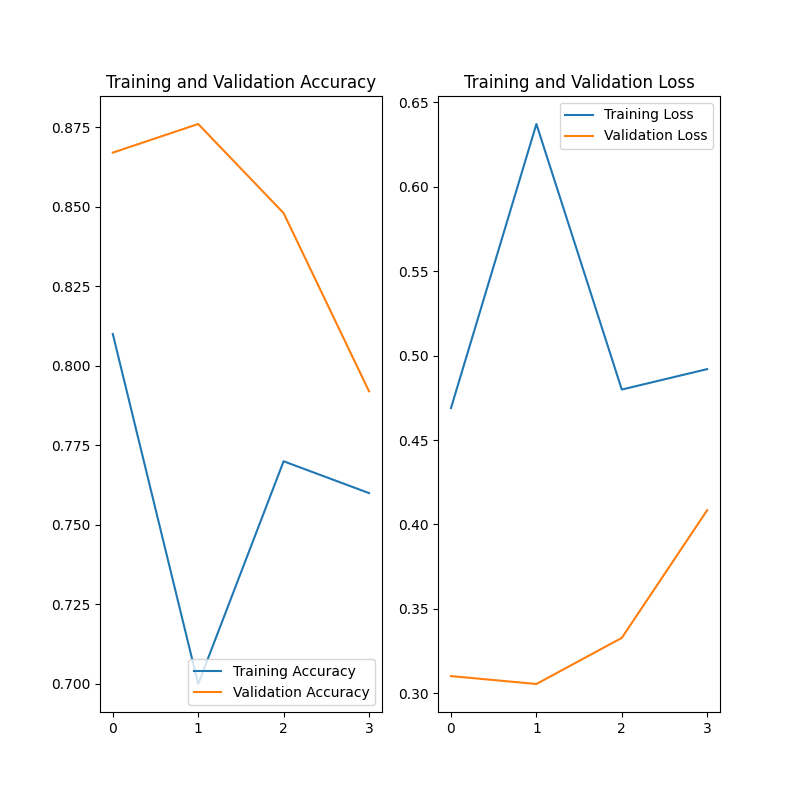
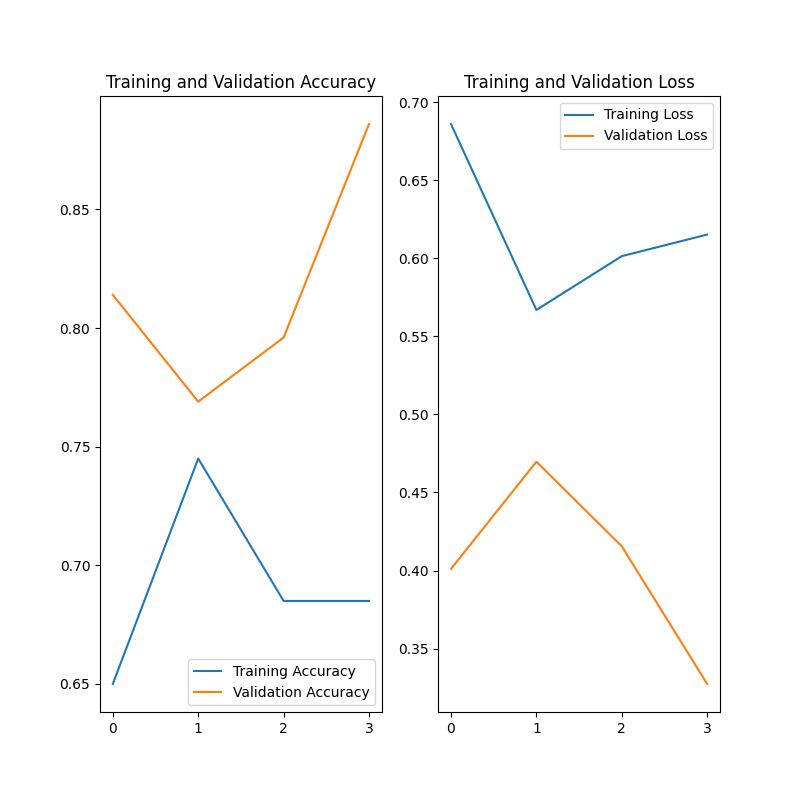
Feature (multi-run support) fully functional

diff --git a/falafel/templates/model.html b/falafel/templates/model.html
@@ -21,14 +21,22 @@
     
     <h2>Training History</h2>
     <div id="accuracyPlot" class="plot"></div>
+    <div id="val_accuracyPlot" class="plot"></div>
     <div id="lossPlot" class="plot"></div>
+    <div id="val_lossPlot" class="plot"></div>
 
     <script>
         var accData = JSON.parse('{{ acc_plot | safe }}');
         Plotly.newPlot('accuracyPlot', accData.data, accData.layout);
 
+        var accData = JSON.parse('{{ val_acc_plot | safe }}');
+        Plotly.newPlot('val_accuracyPlot', accData.data, accData.layout);
+
         var lossData = JSON.parse('{{ loss_plot | safe }}');
         Plotly.newPlot('lossPlot', lossData.data, lossData.layout);
+
+        var accData = JSON.parse('{{ val_loss_plot | safe }}');
+        Plotly.newPlot('val_lossPlot', accData.data, accData.layout);
     </script>
 </body>
 </html>

diff --git a/falafel/app.py b/falafel/app.py
@@ -41,6 +41,13 @@ def create_app():
     ALLOWED_EXTENSIONS = {'png', 'jpg', 'jpeg', 'gif', 'bmp', 'tiff'}
     MAX_CONTENT_LENGTH = constants.MAX_CONTENT_LENGTH
 
+    valueDict = {
+        "acc": ["Training Accuracy", "Accuracy"],
+        "val_acc": ["Validation Accuracy", "Accuracy"],
+        "loss": ["Training Loss", "Loss"],
+        "val_loss": ["Validation Loss", "Loss"],
+    }
+
 
 #### Logging setup
     log_dir = constants.LOG_DIR
@@ -114,6 +121,43 @@ def create_app():
         return results[:5]  # Return top 5 predictions
 
         
+    def plot_history(history_array, value):
+
+        fig = go.Figure()
+
+        epoch_offset = 0
+        for i, history_i in enumerate(history_array):
+            epochs = list(range(epoch_offset, epoch_offset + len(history_i[value])))
+            # acc_fig.add_trace(go.Scatter(x=epochs, y=history_i['acc'], mode='lines+markers', name=f'Run {i+1}'))
+            # epoch_offset += len(history_i['acc'])
+            if i > 0:
+                # Connect the last point of the previous run to the first point of the current run
+                fig.add_trace(go.Scatter(
+                    x=[epoch_offset - 1, epoch_offset],
+                    y=[history_array[i-1][value][-1], history_i[value][0]],
+                    mode='lines',
+                    line=dict(color='gray', dash='dot'),
+                    showlegend=False
+                ))
+
+            fig.add_trace(go.Scatter(
+                x=epochs,
+                y=history_i[value],
+                mode='lines+markers',
+                name=f'Run {i+1}'
+            ))
+
+            epoch_offset += len(history_i[value])
+
+                    # Update layout
+        fig.update_layout(
+            title="".join([valueDict[value][0], " for Multiple Runs"]),
+            xaxis_title='Epoch',
+            yaxis_title=valueDict[value][1],
+            legend_title='Runs'
+        )
+
+        return fig
 
 
 
@@ -206,44 +250,21 @@ def create_app():
                 history_array.append(pickle.load(file_pi))
 
 
-        # Create accuracy plot
-        # acc_fig = go.Figure()
-        # for i in range(nHistories):
-        #     history_current = history_array[i]
-        #     acc_fig.add_trace(go.Scatter(y=history_current['acc'], name="Train Accuracy"))
-        #     acc_fig.add_trace(go.Scatter(y=history_current['val_acc'], name="Validation Accuracy"))
-
-        # acc_fig.update_layout(title="Model Accuracy", xaxis_title="Epoch", yaxis_title="Accuracy")
-
-
-        acc_fig = go.Figure()
-
-        epoch_offset = 0
-        for i, history_i in enumerate(history_array):
-            epochs = list(range(epoch_offset, epoch_offset + len(history_i['acc'])))
-            acc_fig.add_trace(go.Scatter(x=epochs, y=history_i['acc'], mode='lines+markers', name=f'Run {i+1}'))
-            epoch_offset += len(history_i['acc'])
-
-        # Update layout
-        acc_fig.update_layout(
-            title='Training Accuracy for Multiple Runs',
-            xaxis_title='Epoch',
-            yaxis_title='Accuracy',
-            legend_title='Runs'
-        )
-
-
-
+        # Create accuracy plots
+        acc_fig = plot_history(history_array, 'acc')
         acc_plot = json.dumps(acc_fig, cls=plotly.utils.PlotlyJSONEncoder)
 
-        # Create loss plot
-        loss_fig = go.Figure()
-        loss_fig.add_trace(go.Scatter(y=history_array[0]['loss'], name="Train Loss"))
-        loss_fig.add_trace(go.Scatter(y=history_array[0]['val_loss'], name="Validation Loss"))
-        loss_fig.update_layout(title="Model Loss", xaxis_title="Epoch", yaxis_title="Loss")
+        val_acc_fig = plot_history(history_array, 'val_acc')
+        val_acc_plot = json.dumps(val_acc_fig, cls=plotly.utils.PlotlyJSONEncoder)
+
+        # Create loss plots
+        loss_fig = plot_history(history_array, 'loss')
         loss_plot = json.dumps(loss_fig, cls=plotly.utils.PlotlyJSONEncoder)
 
-        return render_template('model.html', model_summary=model_summary, acc_plot=acc_plot, loss_plot=loss_plot)
+        val_loss_fig = plot_history(history_array, 'val_loss')
+        val_loss_plot = json.dumps(val_loss_fig, cls=plotly.utils.PlotlyJSONEncoder)
+
+        return render_template('model.html', model_summary=model_summary, acc_plot=acc_plot, val_acc_plot=val_acc_plot, loss_plot=loss_plot, val_loss_plot=val_loss_plot)
 
 
     return app
